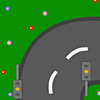
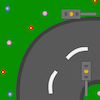
added collision detection

diff --git a/HamburgGradle/src/main/java/de/hsrm/mi/swt/presentation/VerkehrssimulationController.java b/HamburgGradle/src/main/java/de/hsrm/mi/swt/presentation/VerkehrssimulationController.java
@@ -1,5 +1,6 @@
 package de.hsrm.mi.swt.presentation;
 
+import java.awt.Point;
 import java.io.FileInputStream;
 import java.io.FileNotFoundException;
 import java.net.URL;
@@ -388,6 +389,8 @@ public class VerkehrssimulationController implements Initializable {
 	@FXML
 	void backToMenu(ActionEvent event) {
 		scrollToMenu();
+		timelineTrafficLights.stop();
+		timelineVehicle.stop();
 	}
 
 	@FXML
@@ -412,7 +415,7 @@ public class VerkehrssimulationController implements Initializable {
 			timelineVehicle.setRate(playbackspeed);
 			timelineVehicle.play();
 			timelineTrafficLights.stop();
-			timelineTrafficLights.setRate(playbackspeed);
+			timelineTrafficLights.setRate(playbackspeed / 2);
 			timelineTrafficLights.play();
 			showInfoLabelThree.setText("Abspielgeschwindkeit: " + playbackspeed);
 		}
@@ -428,7 +431,7 @@ public class VerkehrssimulationController implements Initializable {
 			timelineVehicle.setRate(playbackspeed);
 			timelineVehicle.play();
 			timelineTrafficLights.stop();
-			timelineTrafficLights.setRate(playbackspeed);
+			timelineTrafficLights.setRate(playbackspeed / 2);
 			timelineTrafficLights.play();
 			showInfoLabelThree.setText("Abspielgeschwindkeit: " + playbackspeed);
 		}
@@ -484,6 +487,12 @@ public class VerkehrssimulationController implements Initializable {
 				int x = car.getXPosition();
 				int y = car.getYPosition();
 
+				if (collisionCheck(vehicles.get(car), car.getDirection())) {
+					drive = false; // kollision nur in direktion checken
+				} else {
+					drive = true;
+				}
+
 				if (trigger.isTriggered(car, x, y)) {
 					car.setNextDirection(
 							trigger.chooseRandomDirection(grid.getStreet(x / 100, y / 100), car.getDirection()));
@@ -501,7 +510,7 @@ public class VerkehrssimulationController implements Initializable {
 				if (trigger.canTurnTo(car) == car.getNextDirection()) {
 
 					car.setDirection(car.getNextDirection());
-					
+
 					switch (car.getDirection()) {
 					case RIGHT:
 						vehicles.get(car).setRotate(0);
@@ -519,8 +528,6 @@ public class VerkehrssimulationController implements Initializable {
 					default:
 						break;
 					}
-
-					
 
 				}
 
@@ -548,8 +555,6 @@ public class VerkehrssimulationController implements Initializable {
 						for (Trafficlight t : grid.getStreet(x, y).getTrafficlights()) {
 
 							t.switchLight();
-
-							// TODO: Fehler in der Junction Grafik, steht bei Grün, fährt bei Rot
 
 							Street street = grid.getStreet(x, y);
 
@@ -603,6 +608,57 @@ public class VerkehrssimulationController implements Initializable {
 		StreetElementStraight.setDisable(true);
 		StreetElementTrafficLight.setDisable(true);
 
+	}
+
+	private boolean collisionCheck(ImageView carImg, Direction carDirection) {
+
+		boolean collisionDetected = false;
+
+		for (Vehicle v : vehicles.keySet()) {
+
+			if (carDirection.equals(Direction.DOWN)) {
+				if (!carImg.equals(vehicles.get(v))) {
+					if (carImg.getBoundsInParent().intersects(v.getXCarProperty().get(), v.getYCarProperty().get() - 20,
+							carImg.getFitHeight(), carImg.getFitWidth() / 2)) {
+
+						collisionDetected = true;
+					}
+				}
+			}
+
+			if (carDirection.equals(Direction.UP)) {
+				if (!carImg.equals(vehicles.get(v))) {
+					if (carImg.getBoundsInParent().intersects(v.getXCarProperty().get(), v.getYCarProperty().get() + 20,
+							carImg.getFitHeight() / 2, 0)) {
+
+						collisionDetected = true;
+					}
+				}
+			}
+
+			if (carDirection.equals(Direction.LEFT)) {
+				if (!carImg.equals(vehicles.get(v))) {
+					if (carImg.getBoundsInParent().intersects(v.getXCarProperty().get() + 20, v.getYCarProperty().get(),
+							carImg.getFitHeight() / 2, 0)) {
+
+						collisionDetected = true;
+					}
+				}
+			}
+			if (carDirection.equals(Direction.RIGHT)) {
+				if (!carImg.equals(vehicles.get(v))) {
+					if (carImg.getBoundsInParent().intersects(v.getXCarProperty().get() - 20, v.getYCarProperty().get(),
+							carImg.getFitHeight() / 2, carImg.getFitWidth())) {
+
+						collisionDetected = true;
+					}
+				}
+			}
+
+//wichtig
+
+		}
+		return collisionDetected;
 	}
 
 	public void scrollToMenu() {

diff --git a/HamburgGradle/src/main/java/business/components/Trafficlight.java b/HamburgGradle/src/main/java/business/components/Trafficlight.java
@@ -130,7 +130,7 @@ public class Trafficlight {
 			}
 
 			if (street.toString().contains(("Crossing"))) {
-				image = new ImageView("/kreuzung_gelb.jpeg");
+				image = new ImageView("/kreuzung_gelb.png");
 				image.setFitHeight(100);
 				image.setFitWidth(100);
 			}

diff --git a/HamburgGradle/src/main/java/business/components/Vehicle.java b/HamburgGradle/src/main/java/business/components/Vehicle.java
@@ -164,5 +164,7 @@ public class Vehicle {
 	public SimpleIntegerProperty getRotationCount() {
 		return rotationCount;
 	}
+	
+	
 
 }
